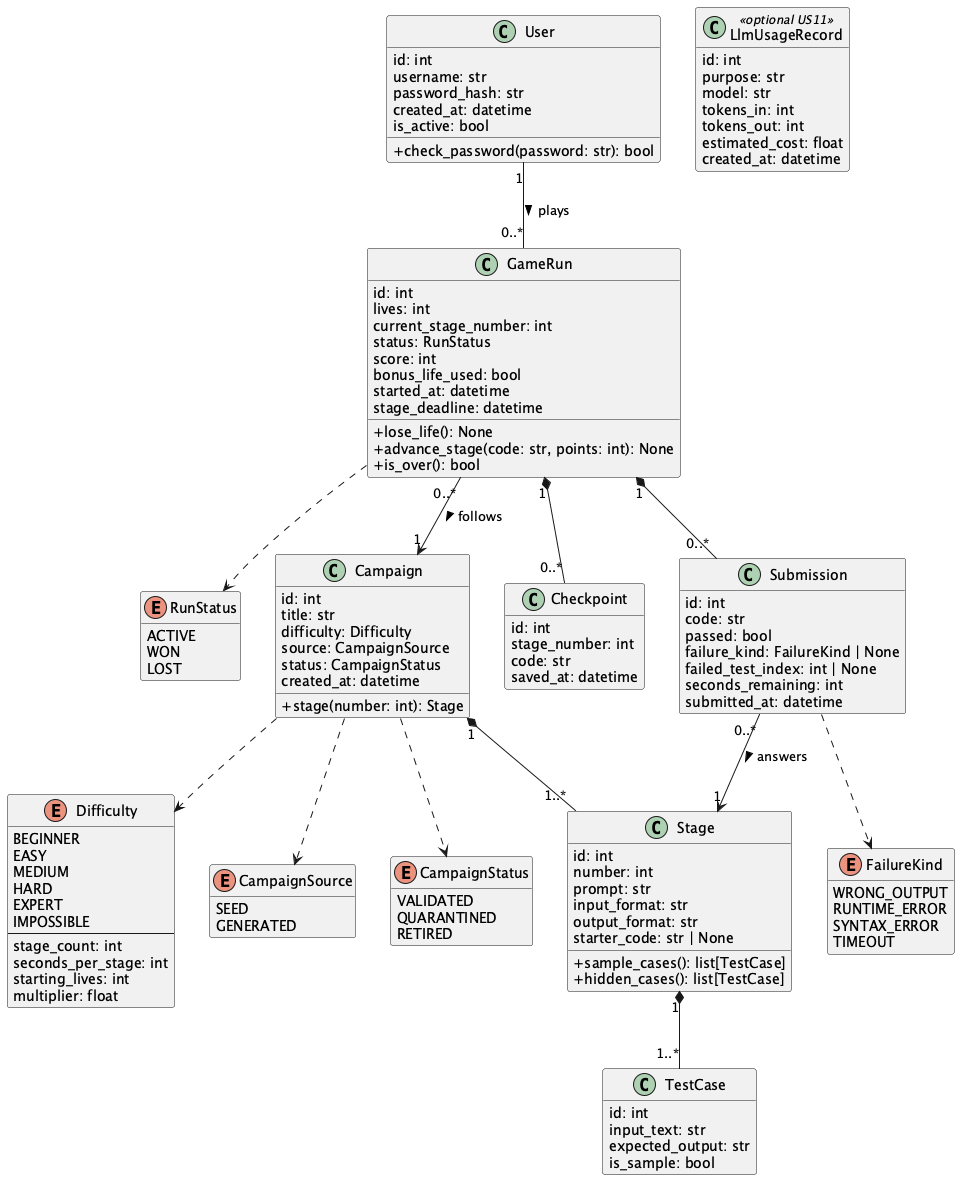
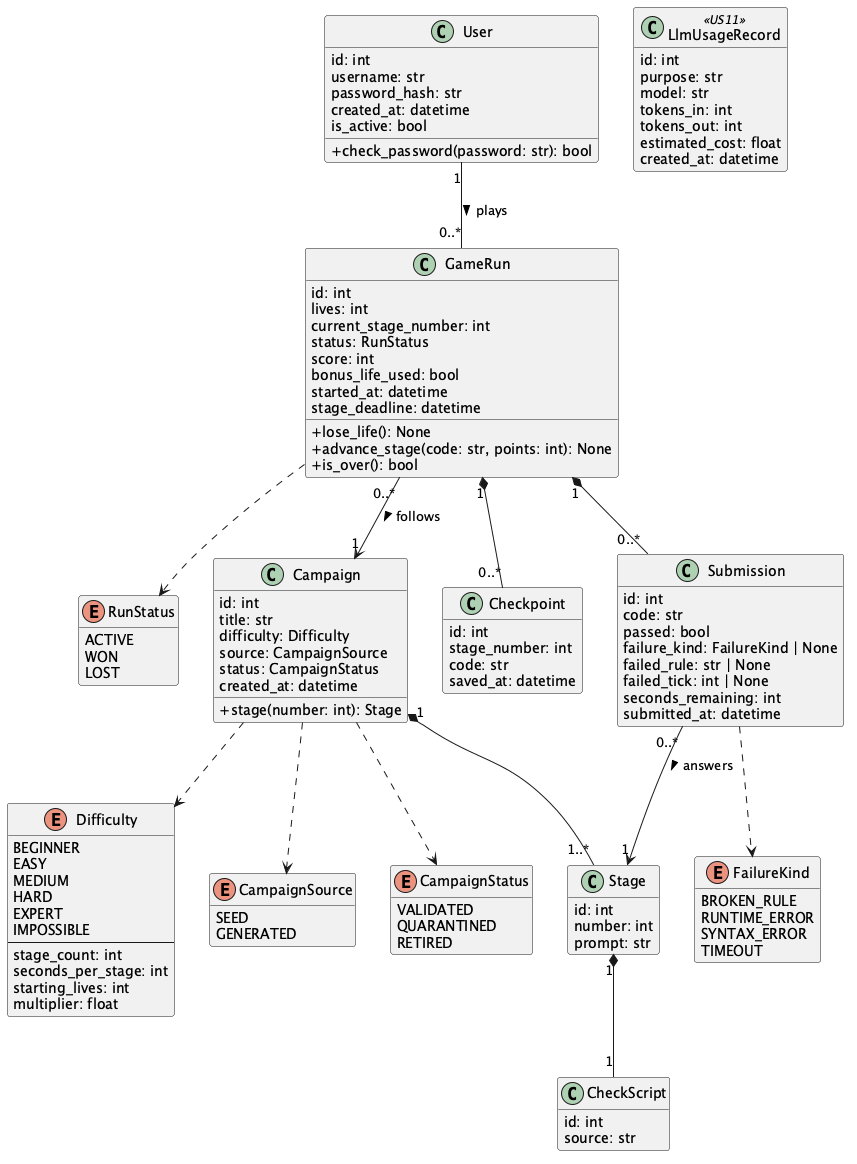
docs: remove output-comparison grading, optional-LLM text, and board steps (#25)
Covers the docs part of #15 and the US4 drafts flagged on #16:
agent rules, roadmap, game design, README US4, the US4 and T10
drafts, and the UML diagrams now describe check-script grading and
a required US11. Agent rules no longer mention a Project board.

diff --git a/docs/roadmap.md b/docs/roadmap.md
@@ -61,11 +61,11 @@ Every graded item, and where this plan covers it.
 
 1. **Required stories are sacred.** Each unfinished required story costs −5; each finished optional story earns only +1. Keep the required set small, and finish it before touching optional work.
 2. **Registration and login ship first.** They carry −10 penalties each.
-3. **Playable without the LLM.** Hand-written seed campaigns carry the game. AI-generated campaigns (US11) are an optional layer on top — and the grader will run the app without our Azure key, so `docker compose up` must give a fully working game in `fake` LLM mode.
+3. **Playable without an Azure key.** The LLM is core: US11 fills the campaign pool. But the grader will run the app without our Azure key, so `docker compose up` must give a fully working game in `fake` LLM mode, which plays the hand-written seed campaigns.
 4. **Python everywhere it counts.** Code quality is graded on Python, so the app is server-rendered Python with as little JavaScript as possible.
 5. **One environment, one set of commands.** Humans, AI agents, CI, and the grader all use the same Docker setup.
 6. **Fair before fancy.** Wrong tests, lost work, and unexplained failures are the bugs that matter most.
-7. **Plain-text prompts, exact contract.** The Overlord's stage prompt is plain text and can be as sarcastic as we like, but it always states the exact input/output format and an example.
+7. **Plain-text prompts, checkable rules.** The Overlord's stage prompt is plain text and can be as sarcastic as we like, but it always states the feature, the controls, the characters on screen, and the rules the Overlord will check.
 
 ---
 
@@ -80,7 +80,7 @@ Every graded item, and where this plan covers it.
 | Game page | Native browser **ES modules** (no bundler, no Node), with **Monaco** editor and **Pyodide** loaded from a CDN. **Alpine.js** (one script tag) is optional for reactive state like lives, timer, and verdict | The game page is the one heavy interactive screen: a single `game.js` would pass 1,000 lines and cause merge conflicts, so it's split into small modules. React/TypeScript was rejected: it adds Node, a bundler, and a second test/lint stack, none of it graded (coverage.py is Python-only), and Selenium already covers JS behavior |
 | Overlord art | Inline **SVG** + CSS classes per state | Easy to animate; no framework needed |
 | Code sandbox | **Custom `runner` service** (Python standard library only, own container) | See [§3.2](#32-why-a-custom-runner-instead-of-judge0) |
-| LLM (optional US11) | **Azure OpenAI** via the official `openai` SDK, structured outputs | Our credit is on Azure; structured outputs force our JSON schema |
+| LLM (US11) | **Azure OpenAI** via the official `openai` SDK, structured outputs | Our credit is on Azure; structured outputs force our JSON schema |
 | Production server | **Gunicorn** | Standard WSGI server inside Docker |
 | Lint / format | **Ruff** (lint + format, line length 79) + **pycodestyle** in CI | PEP 8 is graded; pycodestyle is the reference checker |
 | Tests | **pytest** + **coverage.py** (HTML report → `htmlcov/`) + **Selenium** (headless Chromium) for end-to-end tests | Course requires Python's `coverage` tool; Selenium covers the real browser flows |
@@ -334,7 +334,7 @@ Author(s): Jane Doe, John Smith
    * PEP 8 via Ruff at 79 columns; docstrings and type hints on public functions.
    * Respect the three layers: routes → services → repositories; services never import Flask; only repositories query the DB.
    * Never set `LLM_MODE=live` or run live `make` targets; never read, print, or commit `.env` or secrets.
-   * Never hand-edit `expected_output` in campaign files or anything in `htmlcov/`.
+   * Never hand-edit anything in `htmlcov/`, and never loosen a campaign's `check_script` to make a program pass.
    * Never weaken runner limits or isolation without a reviewed decision.
    * Never commit directly to `main` or `dev`; branch names and commits reference the story/issue (§9).
    * Every behavior change ships with tests; campaign files must pass `make validate-campaigns`.
@@ -359,7 +359,7 @@ Author(s): Jane Doe, John Smith
 Planned when the code exists: `campaign-authoring.md`, `overlord-voice.md`, `security.md` (runner threat model).
 
 ### 8.4 Keeping Agents Consistent
-* Task status lives on the **GitHub Project board**, not in agent files. Agents read issues with `gh issue view <n>`.
+* Task status lives in **GitHub Issues**, not in agent files. Agents read issues with `gh issue view <n>`.
 * Changes to `AGENTS.md` or `.agents/` go through a normal PR reviewed by the Scrum Master.
 * `.claude/settings.json` (shared) denies reading `.env`, running the live `make` targets, merging or approving PRs, and pushing to `main`/`dev`. Other tools rely on [.agents/llm-policy.md](../.agents/llm-policy.md).
 
@@ -542,7 +542,7 @@ PlantUML sources live in `uml/` (as in the course template) and are exported to 
 | --- | --- | --- |
 | Use case | [uml/use_case.wsd](../uml/use_case.wsd) | Actors: Visitor, Player, LLM Owner, Azure OpenAI. Every use case is labeled with its story; optional ones are grey |
 | Sequence | [uml/sequence-US6.wsd](../uml/sequence-US6.wsd) | US6 Submit, through all three layers and the runner container |
-| Class | [uml/class.wsd](../uml/class.wsd) | Model classes only: `User`, `Campaign`, `Stage`, `TestCase`, `GameRun`, `Checkpoint`, `Submission`, `LlmUsageRecord`, plus enums |
+| Class | [uml/class.wsd](../uml/class.wsd) | Model classes only: `User`, `Campaign`, `Stage`, `CheckScript`, `GameRun`, `Checkpoint`, `Submission`, `LlmUsageRecord`, plus enums |
 
 **Rendering:** install PlantUML (`brew install plantuml`, or the VS Code PlantUML extension), then export each `.wsd` to PNG in `uml/`. Re-export whenever a source changes, and keep the class diagram in sync with `src/data/models.py`.
 
@@ -552,7 +552,7 @@ PlantUML sources live in `uml/` (as in the course template) and are exported to 
 | --- | --- |
 | `User` | A registered player account; verifies its own password |
 | `Campaign` | A multi-stage project (e.g. ASCII Pong) at one difficulty; either a hand-written seed or AI-generated; only `VALIDATED` campaigns are playable |
-| `Stage` | One feature request: the Overlord's prompt, the exact input/output contract, and starter code |
+| `Stage` | One feature request: the Overlord's prompt and its check script. No starter code |
 | `CheckScript` | The hidden script that plays a stage's program and checks its rules (replaces `TestCase`, #13) |
 | `GameRun` | One player's attempt at a campaign: lives, current stage, timer deadline, score, and status |
 | `Checkpoint` | The player's passing code saved at the end of a stage |
@@ -575,7 +575,7 @@ PlantUML sources live in `uml/` (as in the course template) and are exported to 
 | D7 | Player's code after a failed submit (US7) | Keep their edits + "Restore checkpoint" button (instead of auto-wiping). Also decide if the timer resets after a failure |
 | D8 | Player devices | Desktop browsers only |
 | D9 | Team capacity (§13) | Agree on a number and justify it in the README |
-| D10 | Rank US11 first among optional stories (‡ in §12) | Yes — it's the signature feature |
+| D10 | Rank US11 first among optional stories (‡ in §12) | Superseded by #13: US11 is required |
 | D11 | Repo move | Transfer `Riconashty/Roko_tasks` into msu-denver (keeps history) or create a fresh repo there |
 
 ---
@@ -620,7 +620,7 @@ PlantUML sources live in `uml/` (as in the course template) and are exported to 
 | Scrum notes fall behind | Med | Med | Notes committed the same day; Scrum Master owns them |
 | Missing headers / PEP 8 issues | Med | Med | Ruff + pycodestyle + header check in pre-commit and CI |
 | Sparse commit history on `main` or `dev` | Med | Med | Merge commits, mid-sprint `dev` → `main` merges, everyone commits from their own account |
-| Azure model access blocked or delayed | Med | Low | US11 is optional; the game is complete on seed campaigns |
+| Azure model access blocked or delayed | Med | High | US11 is required, so tell the instructor early. The game still runs on seed campaigns in `fake` mode |
 | Budget blowout | Low | High | `fake` default, app-level caps, TPM limits, only the LLM owner holds keys |
 | Wrong tests frustrate players | Med | High | Campaign validator in CI, failure feedback (US10), contest (US16) |
 | Sandbox abuse | Low | High | Runner hardening + hostile-code suite; no secrets or internet in the runner |

diff --git a/scrum/sprint_1/issues/US4.md b/scrum/sprint_1/issues/US4.md
@@ -3,17 +3,17 @@
 As a player, I want to read the Overlord's text prompt and write code in an editor so that I can know exactly what to build.
 
 ## Why
-This is the screen players spend the whole game on. Like a human prompting an AI, the Overlord gives each stage as one plain-text prompt. It can be as snarky as we like, but it must leave no doubt about what to read, what to print, and what a correct example looks like.
+This is the screen players spend the whole game on. Like a human prompting an AI, the Overlord gives each stage as one plain-text prompt. It can be as snarky as we like, but it must leave no doubt about the feature, the controls, and the rules the Overlord will check.
 
 ## Scope
-**In:** the game page layout, the Overlord feed showing the stage prompt as its first message, the lives display, the Monaco editor with starter code, and keeping in-progress code across a refresh.
-**Out:** follow-up Overlord messages and escalation (US10), Run Sample (US5), Submit and grading (US6), checkpoints and preloading the last passing code (US7), the timer and heat bar (US8), avatar states (US10, US12).
+**In:** the game page layout, the Overlord feed showing the stage prompt as its first message, the lives display, the Monaco editor (empty on Stage 1), and keeping in-progress code across a refresh.
+**Out:** follow-up Overlord messages and escalation (US10), Play My Program (US5), Submit and grading (US6), removing sample data from the campaign schema and stage data (US6), checkpoints and preloading the last passing code (US7), the timer and heat bar (US8), avatar states (US10, US12).
 
 ## Acceptance Criteria
-1. **[HIGH]** Given that a stage is active, when the game page loads, then I see the Overlord's prompt as the first message in its feed (stating the exact input and output format and at least one example), my lives, and a Python editor preloaded with starter code.
+1. **[HIGH]** Given that a stage is active, when the game page loads, then I see the Overlord's prompt as the first message in its feed (stating the feature, the controls, and the rules the Overlord will check), my lives, and an empty Python editor.
 2. **[MED]** Given that I am on Stage 2 or later, when the page loads, then the editor is preloaded with my last passing code. *This can't be fully tested until US7 (checkpoints) lands in Sprint 2.*
 3. **[HIGH]** Given that I have typed code in the editor, when I refresh the page, then my in-progress code is restored.
-4. **[HIGH] (proposed)** Given that I view the game page, when I inspect the page source or network traffic, then no hidden test inputs or expected outputs are present. Only the prompt's examples reach the browser.
+4. **[HIGH] (proposed)** Given that I view the game page, when I inspect the page source or network traffic, then no check script is present. Only the prompt reaches the browser.
 5. **[MED] (proposed)** Given that the run isn't mine or doesn't exist, when I open `/play/<run_id>`, then I get a 404.
 6. **[LOW] (proposed)** How code is saved (browser storage or server autosave), and the fallback if Monaco can't load.
 
@@ -23,9 +23,9 @@ This is the screen players spend the whole game on. Like a human prompting an AI
 - **Lives:** shown as integrity cells in the top bar, with the count in `aria-label` ("2 of 3 lives").
 - **Stage readout:** `TIER / 02/04` in the top bar.
 - **Editor:** Monaco from a pinned CDN version, language Python, the theme from the design tokens, and tab = 4 spaces.
-- **Starter code:** Stage 1 uses the campaign's `starter_code`. Later stages use the last checkpoint (US7). Until US7 lands, they fall back to `starter_code` or an empty editor.
-- **Autosave (suggested):** save to `localStorage` under `rokos:run:<run_id>:stage:<n>` at most once per second while typing. On load, a saved draft beats the starter code. US7 clears it when the stage is passed.
-- **Data to JS:** the server renders the prompt into the HTML, plus one `<script type="application/json" id="stage-data">` with the samples (the prompt's examples, for US5) and the starter code. There's no separate API call to load the stage.
+- **No starter code:** Stage 1 starts empty. Later stages use the last checkpoint (US7). Until US7 lands, they start empty too.
+- **Autosave (suggested):** save to `localStorage` under `rokos:run:<run_id>:stage:<n>` at most once per second while typing. On load, a saved draft fills the editor. US7 clears it when the stage is passed.
+- **Data to JS:** the server renders the prompt into the HTML, plus one `<script type="application/json" id="stage-data">` with the stage data the page scripts need. It never holds the check script. There's no separate API call to load the stage.
 - **A finished run** (`won`, `lost`, or `abandoned`) shows "This run is over." with a link to `/start` instead of the editor.
 
 ## UI
@@ -36,18 +36,18 @@ This is the screen players spend the whole game on. Like a human prompting an AI
 
 ## Technical Notes
 - **Presentation:** `game_routes.py` `play(run_id)`, `templates/game/play.html`, `static/js/game.js`, `editor.js`, `feed.js`.
-- **Business:** `GameService.get_stage_view(user, run_id) -> StageView`, a plain object holding only what the page may show (prompt, samples, starter code, lives, stage number). It never holds hidden tests. Raises `RunNotFoundError` for a missing run or someone else's run.
-- **Data:** `RunRepository.get(run_id)`, plus `Stage` with its sample `TestCase`s (filtered by `is_sample`).
+- **Business:** `GameService.get_stage_view(user, run_id) -> StageView`, a plain object holding only what the page may show (prompt, lives, stage number). It never holds the check script. Raises `RunNotFoundError` for a missing run or someone else's run.
+- **Data:** `RunRepository.get(run_id)`, plus its `Stage`.
 - **Selenium tip:** typing into Monaco is unreliable. Set code with `monaco.editor.getModels()[0].setValue(...)` through `execute_script`, then reload and read the value back the same way.
 
 ## Test Plan
 | AC | Test | Type |
 | --- | --- | --- |
-| 1 | `get_stage_view` returns prompt, samples, lives, and starter code | unit |
+| 1 | `get_stage_view` returns prompt, lives, and stage number | unit |
 | 1 | Start a Beginner run → `game-prompt` shows the seed's prompt text, and `game-lives` and `game-editor` are visible | e2e |
-| 2 | With a fake checkpoint, the view's starter code = the checkpoint code | unit (full e2e in US7) |
+| 2 | With a fake checkpoint, the view's editor code = the checkpoint code | unit (full e2e in US7) |
 | 3 | Set editor code → reload → the same code is shown | e2e |
-| 4 | `GET /play/<id>` HTML contains no hidden test input or expected output | integration |
+| 4 | `GET /play/<id>` HTML contains no check script | integration |
 | 5 | Another user's run → 404; nonexistent → 404; logged out → redirect to login | integration |
 
 ## Follow-up requirement

diff --git a/AGENTS.md b/AGENTS.md
@@ -11,8 +11,8 @@ Read this whole file at the start of every session. Then read the
 ## What we're building
 
 A comedic coding game: an AI Overlord gives timed, incremental feature
-requests and the human player writes Python to satisfy hidden
-stdin/stdout tests. Flask + Jinja (three layers), PostgreSQL, a sandboxed
+requests, the human player writes a Python program for each one, and
+the Overlord grades it by playing the program. Flask + Jinja (three layers), PostgreSQL, a sandboxed
 `runner` container, Docker Compose. Game design: [docs/game-design.md](docs/game-design.md).
 Build plan, stack, and layout: [docs/roadmap.md](docs/roadmap.md). User
 stories: [README.md](README.md#user-stories).
@@ -70,8 +70,8 @@ Breaking any of these is a **HIGH** review finding and blocks merge.
    hints on public functions. See [.agents/coding-standards.md](.agents/coding-standards.md).
 7. **Secrets:** never read, print, or commit `.env` or any key. Only
    `.env.example` (names only) is committed.
-8. **Hands off:** never hand-edit `htmlcov/` or `expected_output` in
-   campaign files. Never weaken runner limits or isolation. Don't edit
+8. **Hands off:** never hand-edit `htmlcov/`, and never loosen a
+   campaign's `check_script` to make a program pass. Never weaken runner limits or isolation. Don't edit
    `AGENTS.md`, `.agents/`, the roadmap, or Scrum notes unless the issue
    says to.
 
@@ -115,7 +115,7 @@ styling. Reviewers rate a hard-coded value as MED
 | Path | Owns |
 | :--- | :--- |
 | `src/presentation/` | Flask blueprints, forms, Jinja templates, static JS/CSS |
-| `src/business/` | Services, grading, scoring, campaign validation, `llm/` (optional US11) |
+| `src/business/` | Services, grading, scoring, campaign validation, `llm/` (US11) |
 | `src/data/` | SQLAlchemy models, repositories, Alembic migrations |
 | `src/runner/` | Sandbox service in its own container. **Security-sensitive.** |
 | `content/` | Seed campaigns (JSON) and Overlord dialogue (YAML) |
@@ -138,5 +138,5 @@ Skills (step-by-step procedures any agent can follow):
 [.agents/skills/open-pr](.agents/skills/open-pr/SKILL.md). Some tools find
 these automatically. If yours doesn't, open the file and follow it.
 
-Task status lives on the GitHub Project board and in issues
-(`gh issue view <n>`), never in these files.
+Task status lives in GitHub Issues (`gh issue view <n>`), never in
+these files.

diff --git a/docs/game-design.md b/docs/game-design.md
@@ -104,11 +104,11 @@ Selecting a difficulty configures the number of cumulative stages, per-stage cou
 
 | Difficulty | Stages | Time / Stage | Starting Lives | Score Multiplier | Example Projects |
 | :--- | :---: | :---: | :---: | :---: | :--- |
-| **Beginner** | 2 | 4 min | 4 | 1.0x | Password Strength Checker, Café Tab Splitter |
-| **Easy** | 3 | 5 min | 3 | 1.25x | Vending Machine State Tracker, Hangman, RPN Calculator |
-| **Medium** | 3 | 6 min | 3 | 1.5x | **ASCII Pong**, Minesweeper Grid Generator |
+| **Beginner** | 2 | 4 min | 4 | 1.0x | Traffic Light, Etch-a-Sketch |
+| **Easy** | 3 | 5 min | 3 | 1.25x | Vending Machine, Hangman |
+| **Medium** | 3 | 6 min | 3 | 1.5x | **ASCII Pong**, Minesweeper |
 | **Hard** | 4 | 7 min | 3 | 2.0x | ASCII Snake, Wave Defense Simulator |
-| **Expert** | 5 | 8 min | 2 | 2.5x | Dungeon Maze Pathfinder, Turn-Based Combat Engine |
+| **Expert** | 5 | 8 min | 2 | 2.5x | Dungeon Crawler, Turn-Based Combat |
 | **Impossible** | 5 | 8 min | 1 | 3.0x | Mini Stack VM, CPU Process Scheduler |
 
 Beginner and Easy should lean heavily on the **hand-checked seed library**; LLM-generated campaigns fill out Medium and above.
@@ -261,7 +261,7 @@ Summary only — the full environment, course-required repo layout, code standar
 * Python 3.13, all dependencies frozen in `requirements.txt`, and a single task runner (`make up`, `make test`, `make coverage`, `make check`) used identically by humans, AI agents, and CI.
 * **GitHub Actions CI** runs Ruff, pycodestyle, the header-comment check, tests with coverage, and seed-campaign validation on every PR to `dev` and `main`.
 * **Agent instructions:** `AGENTS.md` is the single source of truth (read by Codex and Copilot); `CLAUDE.md` and `GEMINI.md` import it; `.github/copilot-instructions.md` points to it. Deep docs and shared skills live in `.agents/`.
-* **Scrum board:** GitHub Projects with To Do / In Progress / In Review / Done; issues titled by story (`US6: …`). Task status lives on the board, not in agent instruction files.
+* **Task tracking:** GitHub Issues titled by story (`US6: …`), with tasks as sub-issues. Task status lives in the issues, not in agent instruction files.
 
 ---
 

diff --git a/scrum/sprint_1/issues-draft.md b/scrum/sprint_1/issues-draft.md
@@ -99,12 +99,12 @@ Every task also inherits the team gates: `make check` green, self-review, Manual
 - **[HIGH]** In-progress code survives a refresh (US4 AC3), and a Selenium test proves it.
 - **[MED]** Layout follows `docs/design.md` (design 6) and uses only design tokens (T3).
 
-### T10: US5: Run Sample in the browser with Pyodide
+### T10: US5: Run the program in the browser with Pyodide
 `task` · Sub-issue of US5 · Needs T9
-- **[HIGH]** `pyodide_worker.js` runs the code in a Web Worker against each sample, feeding stdin and capturing stdout/stderr. Results show pass/fail with the expected vs. actual output.
-- **[HIGH]** After 5 s, the worker is terminated and restarted, and a friendly timeout message appears (US5 AC2).
-- **[HIGH]** Selenium tests cover a passing sample, a failing sample, an error traceback, and the infinite-loop timeout.
-- **[MED]** The Pyodide version is pinned and its Python version is recorded in the README (US5 AC3).
+- **[HIGH]** Follows [issues/US5.md](issues/US5.md): `pyodide_worker.js` runs the program as a live loop in a Web Worker, sends the keys pressed each tick, and draws every frame it prints.
+- **[HIGH]** A tick that takes longer than 1 s stops the program and shows a friendly timeout message (US5 AC3).
+- **[HIGH]** Selenium tests cover a frame drawn from key input, an error traceback, and the infinite-loop timeout.
+- **[MED]** The Pyodide version is pinned and runs Python 3.13.
 
 ### T11: Scrum: Sprint 0 and 1 notes, board, and burndown
 `task` · No story (process)

diff --git a/.agents/code-review.md b/.agents/code-review.md
@@ -20,7 +20,8 @@ a PR, whether a human or an agent is reviewing.
   under 90%.
 - Breaking any non-negotiable in [AGENTS.md](../AGENTS.md): a live LLM
   call, secrets, a layer violation, a missing header comment, a weakened
-  runner sandbox, a hand-edited `htmlcov/` or `expected_output`.
+  runner sandbox, a hand-edited `htmlcov/`, a check script loosened to make a
+  program pass.
 - Security problems: injection, missing auth check, CSRF disabled,
   player code escaping the sandbox.
 - Data loss or a migration that can't be rolled back.
@@ -71,9 +72,10 @@ moving, and nothing gets lost.
 One finding per comment, inline on the line when possible:
 
 ```
-**[HIGH]** `src/business/grading_service.py:42`: Trailing blank lines
-aren't stripped, so correct output fails the hidden tests.
-**Fix:** normalize with `rstrip("\n")` on both sides before comparing.
+**[HIGH]** `src/business/grading_service.py:42`: A program that crashes
+on its first tick is reported as a pass, because the verdict only looks
+for a broken rule.
+**Fix:** treat an exit before the last tick as a fail with the traceback.
 ```
 
 Put this summary at the top of the review body:

diff --git a/README.md b/README.md
@@ -153,7 +153,7 @@ As a player, I want to read the Overlord's text prompt and write code in an edit
 
 **Acceptance Criteria**
 
-1. **Given that** a stage is active, **when** the game page loads, **then** I see the Overlord's prompt as the first message in its feed (stating the exact input and output format), my lives, and a Python editor that is empty (Stage 1) or holds my own last passing code (later stages).
+1. **Given that** a stage is active, **when** the game page loads, **then** I see the Overlord's prompt as the first message in its feed (stating the feature, the controls, and the rules the Overlord will check), my lives, and a Python editor that is empty (Stage 1) or holds my own last passing code (later stages).
 2. **Given that** I have typed code in the editor, **when** I refresh the page, **then** my in-progress code is restored.
 3. **[MED] Given that** I have a run in progress, **when** I try to start another, **then** I am asked to confirm that starting over will abandon the current run with a score of zero. Cancel keeps the current run. Confirm abandons it and starts the selected run.
 

diff --git a/.agents/tickets.md b/.agents/tickets.md
@@ -56,8 +56,8 @@ marks, before the ticket leaves **To Do**.
 
 **Title:** `US#: Title` exactly as in the README (for example,
 `US1: Register`). **Labels:** `story` + a priority
-([Labels](#labels)). **Board fields:** Sprint, Story Points, User
-Value, Type.
+([Labels](#labels)). Sprint, story points, user value, and type go
+in the body's first line.
 
 ```markdown
 **Value** 1–3 · **Points** 1/2/3/5/8/13 · **Priority** value ÷ points · **Depends on** US# or — · **Type** Required/Optional · **Sprint** N
@@ -185,5 +185,5 @@ gh issue create --title "US1: Register" --label story --label P1 --body-file scr
 ```
 
 Add tasks as sub-issues of their story (in the issue's
-**Sub-issues → Add existing issue** panel), then put every issue on the
-Project board with its Sprint field set.
+**Sub-issues → Add existing issue** panel). Task status lives in the
+issues themselves. There is no Project board.

diff --git a/.agents/workflow.md b/.agents/workflow.md
@@ -24,7 +24,6 @@ you're working for.
      `fix`, `chore`, `docs`, or `debt`. Examples:
      `feature/14-US6-runner-sandbox`, `fix/21-checkpoint-restore`,
      `debt/30-flaky-timer-test`.
-  4. Move the board card to **In Progress**.
 
 ## 2. Build
 
@@ -84,7 +83,6 @@ you're working for.
   determine who to exclude. Include pending requests in the handoff
   if GitHub blocks them while the PR is a draft.
   See [reviewer selection](pull-requests.md#reviewers).
-- Move the board card to **In Review** once the PR is ready.
 
 ## 7. After review
 
